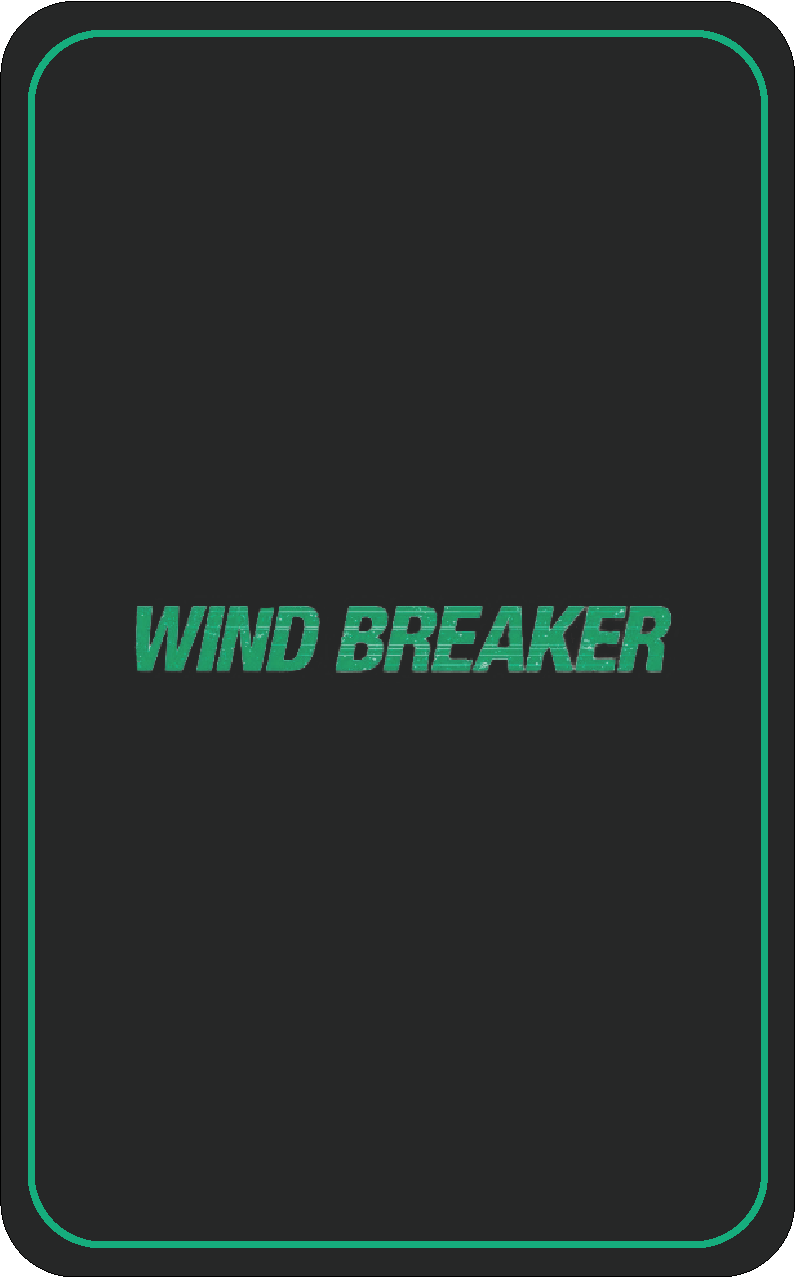
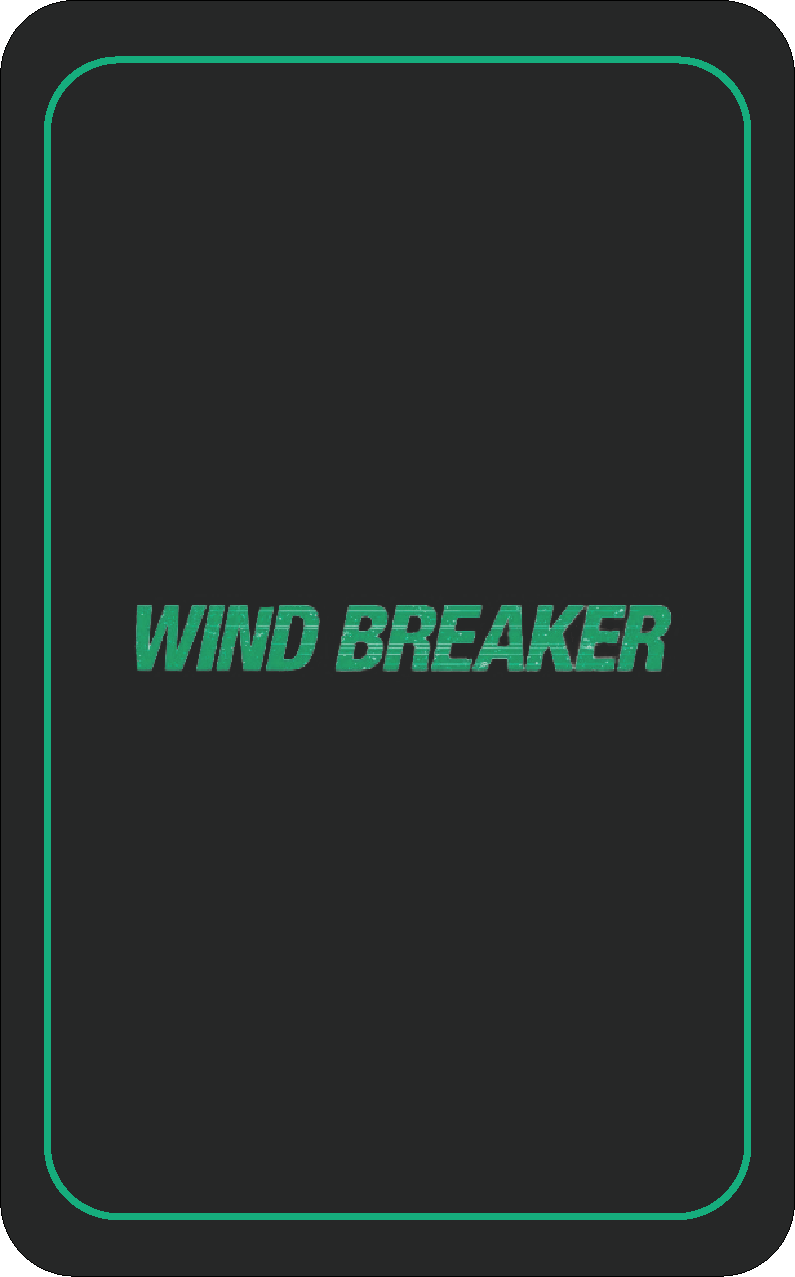
カードのデザイン変更

diff --git a/wind breaker/windo.css b/wind breaker/windo.css
@@ -236,29 +236,30 @@
     transform: rotateY(180deg);
 }
 
-.ura:hover .text {
+.ura:hover .text{
+    transform: rotateY(0);
+}
+
+.ura .text2 {
+    transform: rotateY(180deg);
+}
+
+.ura:hover .text2 {
+    transform: rotateY(0);
+}
+
+.ura .text3 {
+    transform: rotateY(180deg);
+}
+
+.ura:hover .text3 {
     transform: rotateY(0);
 }
 
 
-/* .ura {
-    border-top: 1px solid rgba(255,255,255,0.5);
-    border-left: 1px solid rgba(255,255,255,0.5);
-    width: 280px;
-    height: 450px;
-    display: flex;
-    align-items: center;
-    justify-content: center;
-    text-align: center;
-    border-radius: 15px;
-    box-shadow: 20px 20px 50px rgba(0,0,0,0.5);
-    background: rgba(255,255,255,0.1);
-    backdrop-filter: blur(5px);
-    overflow: hidden;
-    margin: 50px;
-    z-index: 4;
-} */
 .ura .text {
+    background-image: url(img/card01.png);
+    background-size: 280px;
     border-top: 1px solid rgba(255,255,255,0.5);
     border-left: 1px solid rgba(255,255,255,0.5);
     width: 280px;
@@ -269,11 +270,10 @@
     text-align: center;
     border-radius: 25px;
     box-shadow: 20px 20px 50px rgba(0,0,0,0.5);
-    background: rgba(255,255,255,0.1);
     backdrop-filter: blur(5px);
     overflow: hidden;
     margin: 50px;
-    z-index: 4;
+
 }
 
 .ura .text h2{
@@ -295,6 +295,81 @@
     font-weight: 300;
 }
 
+.ura .text2 {
+    background-image: url(img/card02.png);
+    background-size: 280px;
+    border-top: 1px solid rgba(255,255,255,0.5);
+    border-left: 1px solid rgba(255,255,255,0.5);
+    width: 280px;
+    height: 450px;
+    display: flex;
+    align-items: center;
+    justify-content: center;
+    text-align: center;
+    border-radius: 25px;
+    box-shadow: 20px 20px 50px rgba(0,0,0,0.5);
+    backdrop-filter: blur(5px);
+    overflow: hidden;
+    margin: 50px;
+
+}
+
+.ura .text2 h2{
+    position: absolute;
+    top: 50px;
+    right: 30px;
+    font-size: 8rem;
+    color: rgba(255,255,255,0.1);
+}
+
+.ura .text2 h3 {
+    color: #fff;
+    font-size: 1.8rem;
+}
+
+.ura .text2 p {
+    font-size: 1rem;
+    color: #fff;
+    font-weight: 300;
+}
+
+.ura .text3 {
+    background-image: url(img/card03.png);
+    background-size: 280px;
+    border-top: 1px solid rgba(255,255,255,0.5);
+    border-left: 1px solid rgba(255,255,255,0.5);
+    width: 280px;
+    height: 450px;
+    display: flex;
+    align-items: center;
+    justify-content: center;
+    text-align: center;
+    border-radius: 25px;
+    box-shadow: 20px 20px 50px rgba(0,0,0,0.5);
+    backdrop-filter: blur(5px);
+    overflow: hidden;
+    margin: 50px;
+
+}
+
+.ura .text3 h2{
+    position: absolute;
+    top: 50px;
+    right: 30px;
+    font-size: 8rem;
+    color: rgba(255,255,255,0.1);
+}
+
+.ura .text3 h3 {
+    color: #fff;
+    font-size: 1.8rem;
+}
+
+.ura .text3 p {
+    font-size: 1rem;
+    color: #fff;
+    font-weight: 300;
+}
 
 
 .ura .toranpu {
@@ -312,93 +387,6 @@
     z-index: 4;
 }
 
-
-
-.card {
-    border-top: 1px solid rgba(255,255,255,0.5);
-    border-left: 1px solid rgba(255,255,255,0.5);
-    width: 280px;
-    height: 450px;
-    display: flex;
-    align-items: center;
-    justify-content: center;
-    text-align: center;
-    border-radius: 15px;
-    box-shadow: 20px 20px 50px rgba(0,0,0,0.5);
-    background: rgba(255,255,255,0.1);
-    backdrop-filter: blur(5px);
-    overflow: hidden;
-    margin: 50px;
-    z-index: 4;
-}
-
-.card img {
-    width: 100%;
-}
-
-.card .ura{
-    transform: rotateY('-180deg');
-}
-
-
-
-.card:hover .ura {
-    transform: rotateY('0');
-}
-
-.card .omote {
-    transform: rotateY('-180deg');
-}
-
-.card:hover .omote {
-    transform: rotateY('180deg');
-}
-
-
-.card .content {
-    transform: rotateY('180deg');
-    position: relative;
-    padding: 10px;
-    transform: translateY(200px);
-    opacity: 0;
-    transition: 0.5s;
-}
-
-.card:hover .content {
-    transform: translateY(0);
-    opacity: 1;
-}
-
-.card .content h2 {
-    position: absolute;
-    top: -80px;
-    right: 30px;
-    font-size: 8rem;
-    color: rgba(255,255,255,0.1);
-}
-
-.card .content h3 {
-    color: #fff;
-    font-size: 1.8rem;
-}
-
-.card .content p {
-    font-size: 1rem;
-    color: #fff;
-    font-weight: 300;
-}
-
-.card .content a {
-    text-decoration: none;
-    display: inline-block;
-    padding: 8px 20px;
-    background: #fff;
-    margin-top: 15px;
-    border-radius: 20px;
-    color: #000;
-    font-weight: 500;
-    box-shadow: 0px 5px 15px rgba(0,0,0,0.5);
-}
 
 .forle {
     text-align: center;
@@ -472,6 +460,7 @@
     width: 1000px;
     margin: 40px auto;
 }
+
 
 .slick-prev:before,
 .slick-next:before {

diff --git a/wind breaker/windo.html b/wind breaker/windo.html
@@ -62,24 +62,21 @@
         </div>
             <div class="box">
                 <div class="ura omote1">
-                    <div class="text">
-                        <h2>01</h2>
+                    <div class="text ">
                         <h3>ヤンキーアニメが <br>好きな人</h3>
                     </div>
                     <div class="toranpu"><img src="img/cardwind.png" width="280px" height="450px"></div>
                 <!-- <div class="ura"><img src="img/cardwind.png" width="280px" height="450px"></div> -->
                 </div>
                 <div class="ura omote2">
-                    <div class="text">
-                        <h2>02</h2>
+                    <div class="text2">
                         <h3>青春友情物語が <br>好きな人</h3>
                     </div>
                     <div class="toranpu"><img src="img/cardwind.png" width="280px" height="450px"></div>
                 </div>
                 <div class="ura omote3">
-                    <div class="text">
-                        <h2>03</h2>
-                        <h3>アクションシーンが <br>好きな人</h3>
+                    <div class="text3">
+                        <h3>アクション系が <br>好きな人</h3>
                     </div>
                     <div class="toranpu"><img src="img/cardwind.png" width="280px" height="450px"></div>
                 </div>
